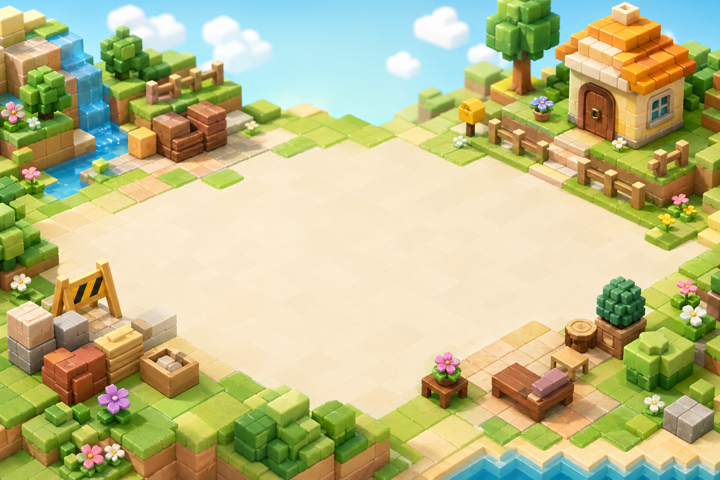
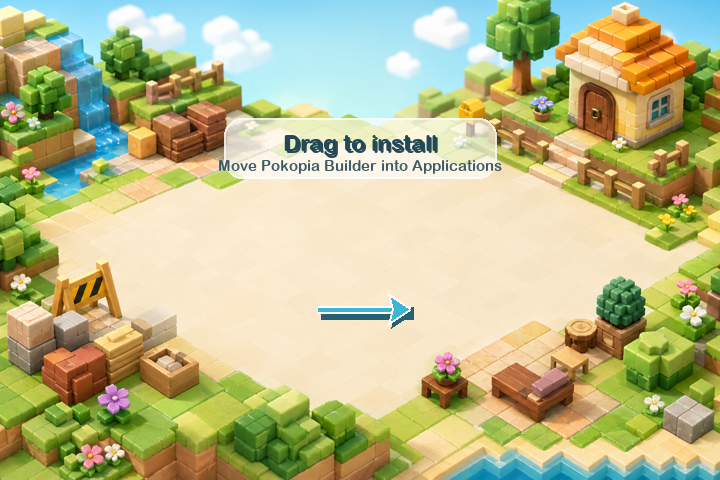
Fix DMG installer background layout

Changed region(s): [[0.3056, 0.2188, 0.7028, 0.375], [0.4278, 0.625, 0.5806, 0.6875]]

diff --git a/docs/PROJECT_BREAKDOWN.md b/docs/PROJECT_BREAKDOWN.md
@@ -33,6 +33,7 @@
   - creates compressed DMG with Applications shortcut
   - applies `dist/assets/pokopia-dmg-background.png` as the drag-and-drop installer background
   - writes Finder layout metadata for the app icon and Applications shortcut
+  - uses `create-dmg` when available so the background reference is portable after download
 
 ## Catalog Generation
 

diff --git a/README.md b/README.md
@@ -189,6 +189,12 @@ Package as app + DMG:
 scripts/build-pokopia-builder-app.sh
 ```
 
+Install `create-dmg` first for the styled drag-and-drop installer window:
+
+```bash
+brew install create-dmg
+```
+
 ## Data Sources
 
 See:
